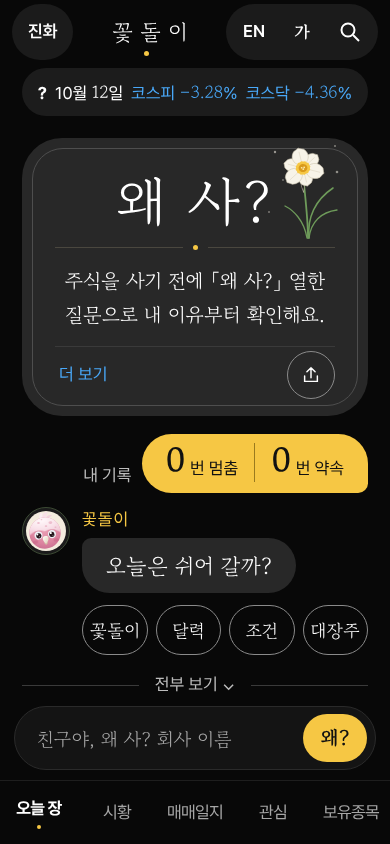
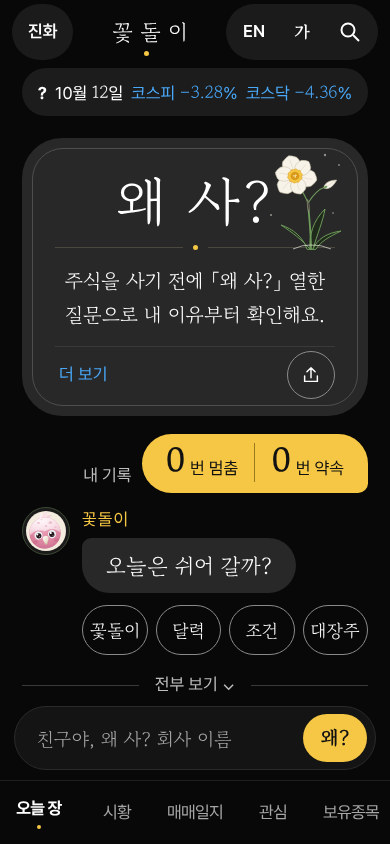
수선화 석 장 — 그리는 중 사본
Claude-Session: https://claude.ai/code/session_01NCpyR4ELc71hqitZJpUS2Z

Changed region(s): [[0.7077, 0.154, 0.8615, 0.3081]]

diff --git a/docs/design/kakao-2026-10-19/mock/d3.html b/docs/design/kakao-2026-10-19/mock/d3.html
@@ -43,6 +43,7 @@ button,input{font:inherit;color:inherit;background:none;border:0}
 .plate .pond svg{display:block;width:100%;overflow:visible}
 .plate .bloom{position:absolute;left:0;top:0;width:100%;height:56px;pointer-events:none}
 .plate .mirror{height:32px;margin-top:6px}
+.plate .at{transform-origin:112px 62px;transform:translate(14px,0)}
 .plate .mirror .rw{font-family:"Gowun Batang",serif;font-size:56px;letter-spacing:.04em}
 .plate p[data-ess="1"]{font-size:20px;line-height:1.7;color:#FFFFFF;word-break:keep-all;max-width:15.5em;margin:0 auto}
 .plate .foot{display:flex;align-items:center;justify-content:space-between;margin-top:14px;border-top:1px solid #3A3A3A;padding:4px 0 6px}
@@ -116,7 +117,7 @@ button,input{font:inherit;color:inherit;background:none;border:0}
   .plate .big{font-size:42px}
   .plate .mirror .rw{font-size:42px}
   .plate .mirror{height:26px}
-  .plate .at{transform:translate(-30px,6px) scale(.86)}
+  .plate .at{transform:translate(-4px,0) scale(.8)}
   .plate .rip{transform:scale(.8,1)}
   .plate p[data-ess="1"]{font-size:18px;line-height:1.5}
   .plate .foot{margin-top:12px}
@@ -148,7 +149,7 @@ button,input{font:inherit;color:inherit;background:none;border:0}
             <path d="M112 62 C 114 34, 106 10, 94 6" fill="none" stroke="#6E9B5A" stroke-width="1.6" stroke-linecap="round"/>
             <path d="M112 62 C 108 46, 116 30, 121 18" fill="none" stroke="#6E9B5A" stroke-width="1.2" stroke-linecap="round"/>
             <path d="M112 62 C 104 50, 100 42, 96 36" fill="none" stroke="#6E9B5A" stroke-width="1.1" stroke-linecap="round"/>
-            <g transform="translate(88 12) rotate(-38) scale(1 0.74)"><ellipse cx="0" cy="-10.5" rx="5.2" ry="11" fill="#F7F3E8" transform="rotate(0)"/><ellipse cx="0" cy="-10.5" rx="5.2" ry="11" fill="#F7F3E8" transform="rotate(60)"/><ellipse cx="0" cy="-10.5" rx="5.2" ry="11" fill="#F7F3E8" transform="rotate(120)"/><ellipse cx="0" cy="-10.5" rx="5.2" ry="11" fill="#F7F3E8" transform="rotate(180)"/><ellipse cx="0" cy="-10.5" rx="5.2" ry="11" fill="#F7F3E8" transform="rotate(240)"/><ellipse cx="0" cy="-10.5" rx="5.2" ry="11" fill="#F7F3E8" transform="rotate(300)"/>
+            <g transform="translate(90 14) rotate(-28) scale(1 0.66)"><ellipse cx="0" cy="-10.5" rx="5.2" ry="11" fill="#F7F3E8" transform="rotate(0)"/><ellipse cx="0" cy="-10.5" rx="5.2" ry="11" fill="#F7F3E8" transform="rotate(60)"/><ellipse cx="0" cy="-10.5" rx="5.2" ry="11" fill="#F7F3E8" transform="rotate(120)"/><ellipse cx="0" cy="-10.5" rx="5.2" ry="11" fill="#F7F3E8" transform="rotate(180)"/><ellipse cx="0" cy="-10.5" rx="5.2" ry="11" fill="#F7F3E8" transform="rotate(240)"/><ellipse cx="0" cy="-10.5" rx="5.2" ry="11" fill="#F7F3E8" transform="rotate(300)"/>
               <circle r="6.6" fill="#F6C744"/><circle r="6.6" fill="none" stroke="#C99A22" stroke-width="1.3"/><circle r="2.2" fill="#C99A22"/></g>
         </g></svg></svg>
         <svg class="mirror" aria-hidden="true" focusable="false">
@@ -159,7 +160,7 @@ button,input{font:inherit;color:inherit;background:none;border:0}
               <g class="at"><path d="M112 62 C 114 34, 106 10, 94 6" fill="none" stroke="#3A4535" stroke-width="1.6" stroke-linecap="round"/>
             <path d="M112 62 C 108 46, 116 30, 121 18" fill="none" stroke="#3A4535" stroke-width="1.2" stroke-linecap="round"/>
             <path d="M112 62 C 104 50, 100 42, 96 36" fill="none" stroke="#3A4535" stroke-width="1.1" stroke-linecap="round"/>
-            <g transform="translate(88 12) rotate(-38) scale(1 0.74)"><ellipse cx="0" cy="-10.5" rx="5.2" ry="11" fill="#4A4740" transform="rotate(0)"/><ellipse cx="0" cy="-10.5" rx="5.2" ry="11" fill="#4A4740" transform="rotate(60)"/><ellipse cx="0" cy="-10.5" rx="5.2" ry="11" fill="#4A4740" transform="rotate(120)"/><ellipse cx="0" cy="-10.5" rx="5.2" ry="11" fill="#4A4740" transform="rotate(180)"/><ellipse cx="0" cy="-10.5" rx="5.2" ry="11" fill="#4A4740" transform="rotate(240)"/><ellipse cx="0" cy="-10.5" rx="5.2" ry="11" fill="#4A4740" transform="rotate(300)"/>
+            <g transform="translate(90 14) rotate(-28) scale(1 0.66)"><ellipse cx="0" cy="-10.5" rx="5.2" ry="11" fill="#4A4740" transform="rotate(0)"/><ellipse cx="0" cy="-10.5" rx="5.2" ry="11" fill="#4A4740" transform="rotate(60)"/><ellipse cx="0" cy="-10.5" rx="5.2" ry="11" fill="#4A4740" transform="rotate(120)"/><ellipse cx="0" cy="-10.5" rx="5.2" ry="11" fill="#4A4740" transform="rotate(180)"/><ellipse cx="0" cy="-10.5" rx="5.2" ry="11" fill="#4A4740" transform="rotate(240)"/><ellipse cx="0" cy="-10.5" rx="5.2" ry="11" fill="#4A4740" transform="rotate(300)"/>
               <circle r="6.6" fill="#58502F"/><circle r="6.6" fill="none" stroke="#4A4330" stroke-width="1.3"/><circle r="2.2" fill="#4A4330"/></g></g>
             </g>
             <path class="rip" d="M-92 9h30M-40 9h56M44 9h22M-70 17h40M6 17h48M88 17h24M-46 25h26M20 25h34" stroke="#282828" stroke-width="2"/>

diff --git a/docs/design/kakao-2026-10-19/mock/d3.why.md b/docs/design/kakao-2026-10-19/mock/d3.why.md
@@ -1,0 +1,24 @@
+# d3 · 「물에 비친 꽃」
+
+한 줄 생각: 수선화가 물에 비친 저를 들여다보듯, 사기 전에 내 이유를 한 번 들여다본다.
+
+## 왜? 다섯
+1. 왜 「왜 사?」 밑에 물 선을 그었나? 글자가 물가에 선 것처럼 보여, 눈이 자연스레 아래 비친 모습으로 내려간다.
+2. 왜 비친 글자를 옅게 했나? 진짜 말은 위에 하나뿐이다. 아래는 마음속에서 되묻는 소리처럼 조용해야 한다.
+3. 왜 꽃은 한 송이뿐인가? 꽃이 많으면 꾸밈이 된다. 한 송이가 고개를 숙여 물을 보는 모습 하나로 뜻이 전해진다.
+4. 왜 노랑을 금빛으로 바꿨나? 수선화 가운데 잔의 금빛이다. 내 기록과 「왜?」 단추가 꽃 한가운데처럼 내 것이 된다.
+5. 본질: 사기 전에 한 번 멈추게 하는 곳. 물에 비친 「왜 사?」를 보는 그 짧은 순간이 바로 멈춤이다.
+
+## 그럴까?
+나르키소스 이야기는 「자기만 사랑하다 빠져 죽음」으로도 읽힌다. 그래서 그 뜻은 버리고 「나를 돌아봄」만 남겼다. 꽃은 물에 빠지지 않고 물가에서 내려다볼 뿐이다.
+
+## 수선화에서 가져온 것
+1. 모양: 여섯 꽃잎 가운데 둥근 잔 하나, 가늘고 곧은 꽃대 — 손으로 그린 svg 한 송이(사진 · 남의 그림 0).
+2. 색: 흰 꽃잎 #F7F3E8 위 금빛 잔 #F6C744 — 이 금빛이 「내 것」 노랑 자리를 대신함. 초록 #6E9B5A 는 꽃대 가는 선에만.
+3. 뜻: 물에 비친 저를 들여다봄 — 물 선 아래 「왜 사?」와 꽃이 위아래로 뒤집혀 옅은 단색으로 비침(그러데이션 0 · 그림이라 글 대비 검사와 무관 · 화면 읽기 기계에는 숨김).
+4. 고요: 고개 숙인 꽃 — 꽃 얼굴을 물 쪽으로 기울여 「한 번 내려다봄」을 보여 줌.
+5. 절제: 물결은 카드 바탕색 짧은 가로줄 몇 개로만 끊어 표현, 그림자 · 입체 0.
+
+## 지킨 것
+f3 의 새긴 글자 · 둥근 결 · 숫자 · 날짜 · 본질 세 줄 · 표시 모두 그대로. 보이는 이름만 골똘이 → 꽃돌이(맨 위 · 말풍선 이름 · 꽃돌이 칸 첫 단추). 분홍 점은 금빛 점으로.
+검사: 흰 바탕 · 글 색 두 줄만 걸림(어두운 판이라 예정된 것), 나머지 22가지 통과.

diff --git a/docs/design/kakao-2026-10-19/mock/d1.why.md b/docs/design/kakao-2026-10-19/mock/d1.why.md
@@ -1,0 +1,23 @@
+# d1 · 「설중화」
+
+한 줄 생각: f3 의 새긴 글자와 둥근 결은 그대로 둔다. 밤 눈 속에 핀 제주 수선화 한 송이만 「왜 사?」 곁에 둔다.
+
+## 왜? 다섯
+1. 왜 꽃이 한 송이뿐인가? 꽃이 많으면 꾸밈이 되고, 한 송이면 눈이 「왜 사?」로 돌아온다.
+2. 왜 꽃이 글 오른쪽에서 금 위로 자라나나? 「왜 사?」 밑 가는 금이 눈 덮인 땅이 된다. 글이 꽃의 이름처럼 읽힌다.
+3. 왜 흰 꽃잎에 금빛 잔인가? 제주 수선화 「금잔옥대」가 그렇다. 흰 옥 받침 위 금 잔 하나가 밤에서 가장 먼저 눈에 든다.
+4. 왜 노랑을 금빛으로 바꿨나? 꽃 잔과 내 기록, 찾기 「왜?」 단추가 같은 금빛이다. 금빛은 「내 것」과 꽃에만 있다.
+5. 본질: 사기 전에 한 번 멈추게 하는 곳. 눈 속에서 피는 꽃은 서두르지 않는다. 사기 전에 그 꽃 앞에서 숨 한 번 쉬게 한다.
+
+## 그럴까?
+꽃 그림이 「예쁜 장식」으로만 읽혀 주식 화면의 믿음을 깎지 않을까? 그래서 꽃은 손바닥만 하게, 한 송이만, 글 옆 빈자리에만 두었다. 숫자 칸에는 꽃이 없다.
+
+## 수선화에서 가져온 것
+1. 꽃의 짜임 — 겉 꽃잎 셋과 속 꽃잎 셋이 엇갈린 여섯 조각, 가운데 낮은 금빛 잔, 잔 끝의 잔물결, 꽃잎마다 가는 결 한 줄.
+2. 제주 수선화의 성질 — 한 줄기에 꽃과 봉오리가 함께 달림, 꽃자루 밑 얇은 껍질(꽃턱잎), 곧은 꽃대와 띠 모양 잎.
+3. 눈 속에 핌(설중화) — 가는 흰 눈 언덕 한 줄과 흩날리는 눈 몇 점. 그림자와 번짐 없이 단색만.
+4. 색 — 꽃잎 #F7F3E8, 잔 #F6C744, 잔 속 #D99A1C, 잎줄기 #6E9B5A 는 가는 선에만. 옛 분홍 점은 모두 금빛 점으로.
+5. 「나를 돌아봄」 — 꽃이 글을 향해 고개를 살짝 숙인다. 자기 자랑의 뜻은 쓰지 않았다.
+
+## 그대로 둔 것
+본질 세 줄 글자 · 숫자 · 날짜 · 표시(data-w · data-ess · data-say · data-num · data-fact · data-path · jhBtn) · 아래 단추 다섯. 바뀐 이름은 보이는 「골똘이」 넷 → 「꽃돌이」.
